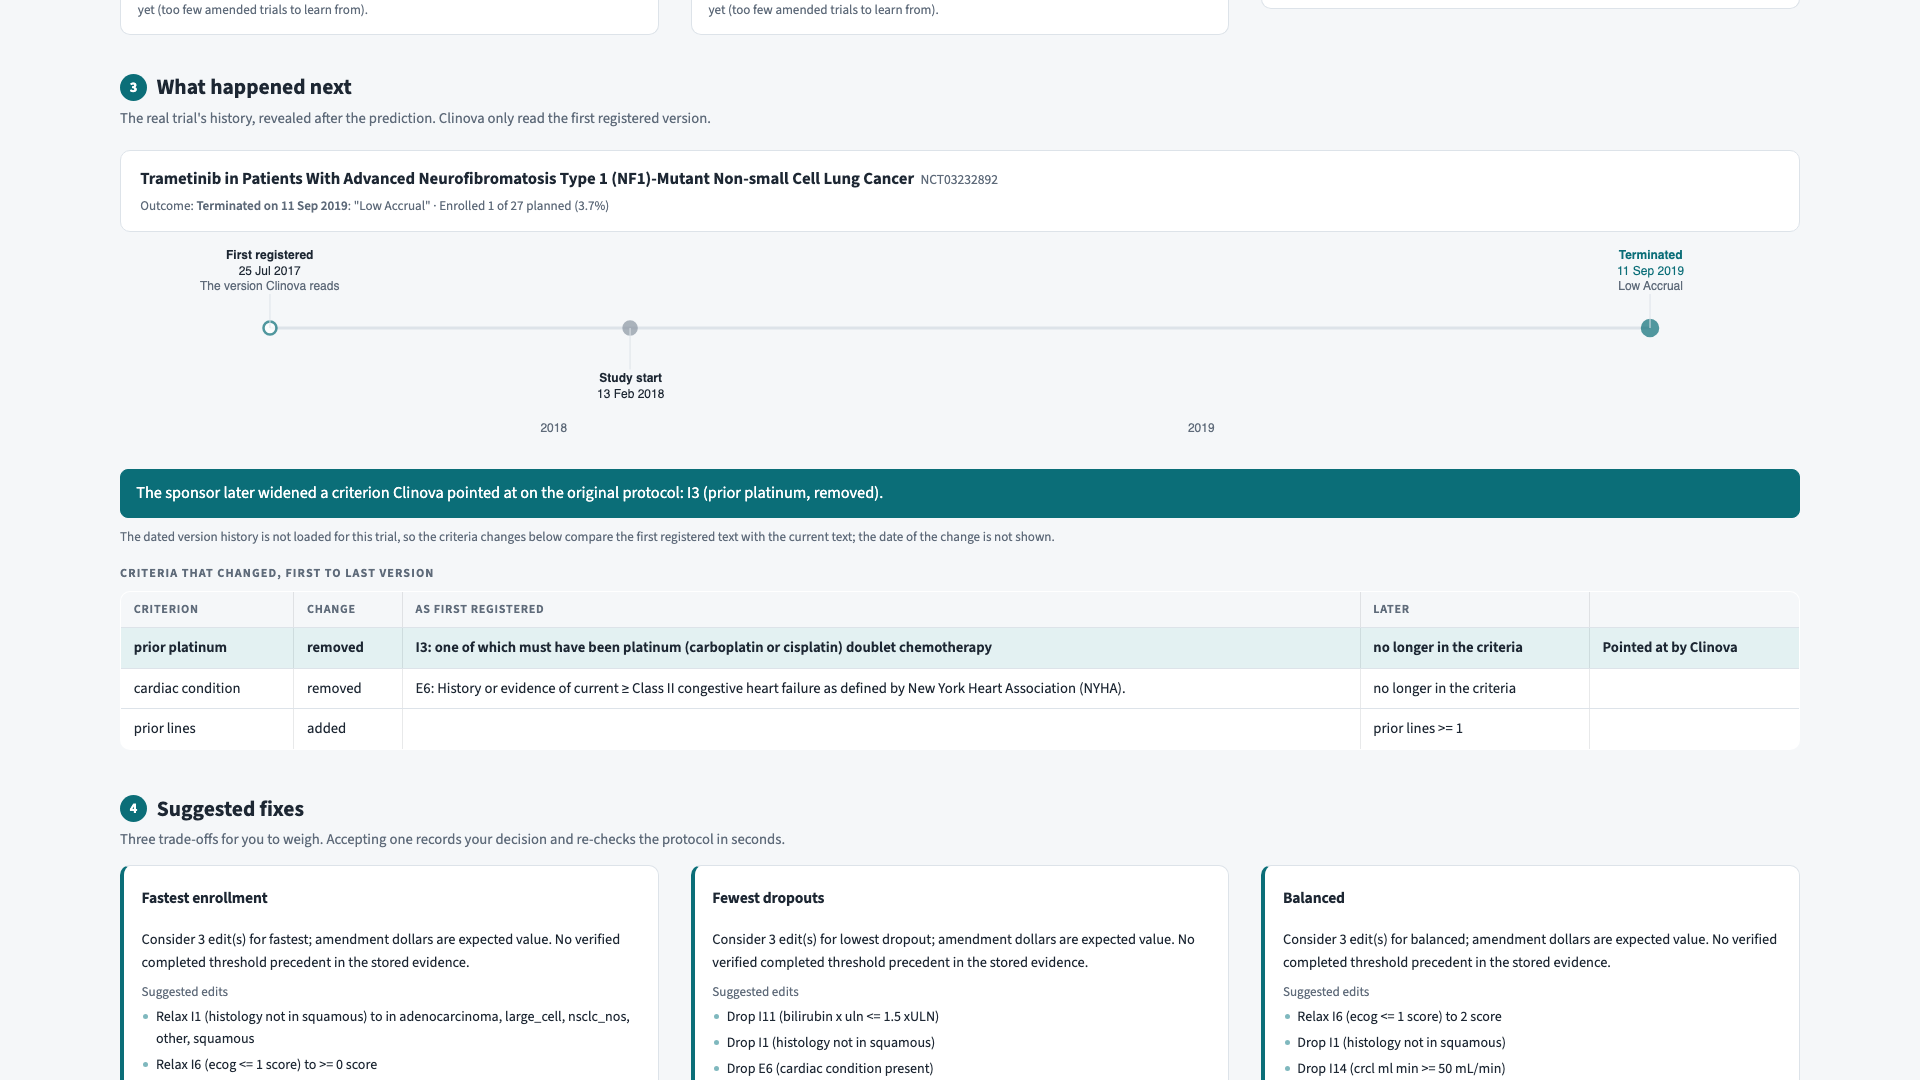
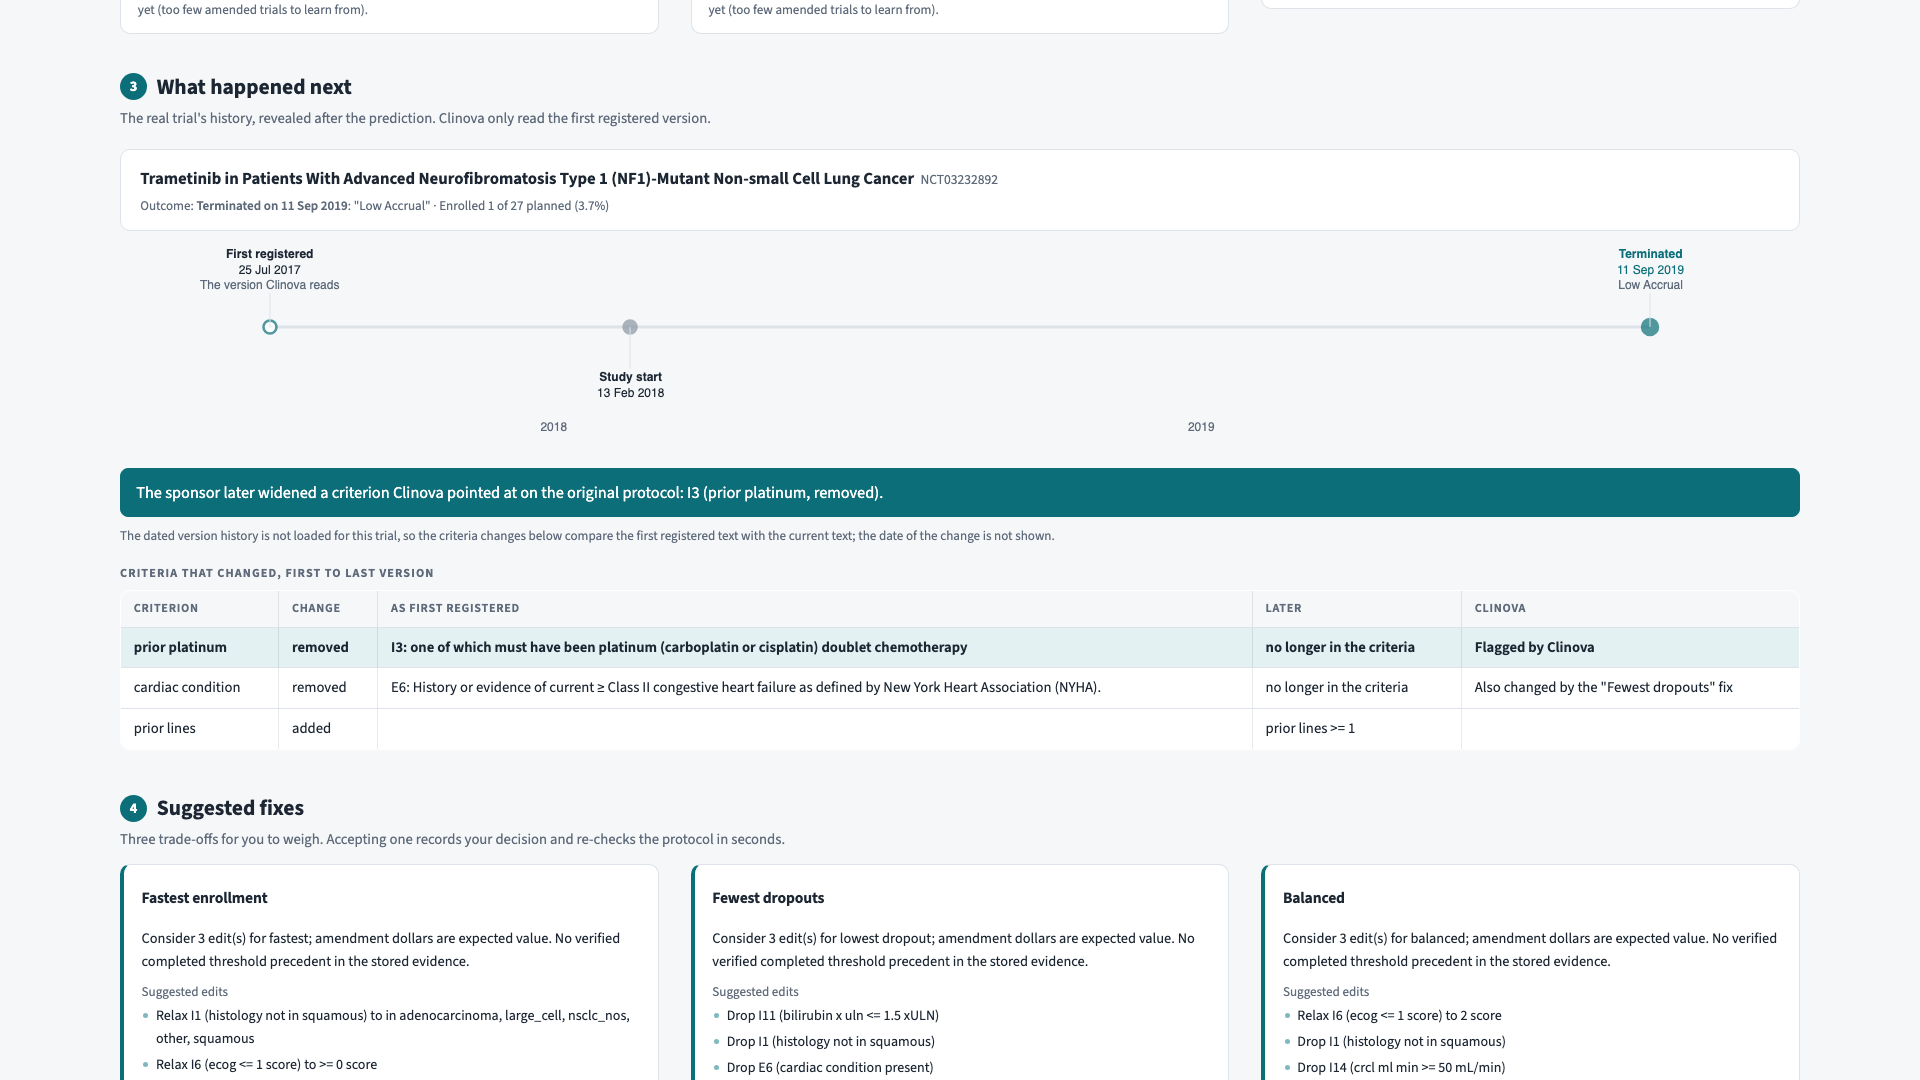
T32: App polished on frozen v1.0 outputs: video-order results (waterfall funnel, percentile risk, not-validated/no-model states, flags, reveal timeline, 3 fix cards, accept before/after), cached demo results, 11 screenshots; 481 tests pass with libomp path (env issue in contract_changes/T32.md)

diff --git a/clinova/app/charts.py b/clinova/app/charts.py
@@ -96,7 +96,7 @@ def funnel_waterfall(funnel: Funnel, sims: list[SimRunSummary], highlight: str |
     comp = _mean([s.completion_rate for s in sims]) if sims else None
     if enroll is not None and comp is not None:
         n_enr = round(funnel.n_eligible * enroll)
-        tail += [("Enroll", n_enr), ("Complete", round(n_enr * comp))]
+        tail += [("Enroll", n_enr), ("Finish", round(n_enr * comp))]
     fig = go.Figure()
     fig.add_trace(
         go.Bar(

diff --git a/clinova/api/runs.py b/clinova/api/runs.py
@@ -252,6 +252,8 @@ class RunManager:
         While the ledger or database is unavailable the score goes to the in-memory audit instead."""
         from clinova.api.audit import MEMORY
 
+        if any(d.feature == "no_model" for d in risk.top_drivers):
+            return  # a placeholder (e.g. amendment with no model) is not a prediction; never log it as one
         ctx = "fixture" if fixture else context
         try:
             live._need_db()

diff --git a/docs/handoff/T32.md b/docs/handoff/T32.md
@@ -1,0 +1,96 @@
+# T32 handoff: app polish on real v1.0 outputs
+
+Branch `task/T32-app-polish`. History:
+- started early on gate/1 plus `origin/task/T25-api`;
+- `origin/main` merged at gate/2 with no conflicts;
+- finished on the frozen v1.0 outputs.
+
+Owns `clinova/app/`, presentation-only parts of `clinova/api/`, `tests/app/`, `tests/api/` and `docs/screens/`.
+
+## What works
+- **Results screen in demo-video order.** Funnel and risk share the first row; then come "Where to look first" (flags), "What happened next" (the reveal, for NCT loads) and "Suggested fixes". Secondary funnel charts sit in an expander. The footer reads "Clinova advises; the protocol author decides." It appears on every tab.
+- **0:20–1:10.**
+  - Loading an NCT ID shows the chip "Protocol as originally registered on 25 Jul 2017", using the API's `registered_on`.
+  - The funnel is a protocol-order waterfall: remaining and dropped per criterion, then eligible, would enroll, would finish. The flagged criterion is highlighted, with a callout giving its counts. That is the top flag; with no flags, it is the largest single-rule exclusion.
+  - KPI tiles: screened, eligible, enroll, finish.
+  - Risk cards show the probability, its range, confidence and drivers.
+  - With real metrics, each card adds its percentile among held-out test trials (from `docs/predictions.csv`).
+  - A target with no test metrics shows "No model yet" and no number (amendment in v1.0).
+  - A target whose AUC interval is not above 0.5, or whose Brier score is not better than the baseline's, shows "Not validated" (shortfall in v1.0).
+- **Flags.** Each flag shows where, why and what to do.
+  - Dollar line: the expected value of the fix that changes the same rule. With no amendment model, it says the value is not estimated, and why.
+  - When every flag has `delta_p` 0, the section says they are ranked by exclusion share, not by modeled risk.
+- **1:10–1:30 reveal.**
+  - The trial card shows the outcome and enrollment (1 of 27 planned for the demo trial).
+  - A horizontal timeline comes from the trial record and `trial_versions`: first registered, study start, eligibility changes (accent), status change or termination (accent).
+  - A strong callout appears when the sponsor later widened a rule Clinova pointed at (demo: I3 prior platinum, removed).
+  - The rule-change table shows the first-registered source text. Each row is marked "Flagged by Clinova" or "Also changed by the 'Fewest dropouts' fix" (the cardiac exclusion).
+  - When the version history is not loaded, the reveal says so instead of showing a date.
+- **1:30–2:10 fixes.**
+  - Three fix cards in columns: edits in plain words (symbols, units, lists), enrollment speed, dropout, diversity, amendment risk and expected value. Each shows its range, or "not estimated: no amendment model yet". Precedents appear when present.
+  - Accept calls `/fixes/accept`. It shows a before/after table with a Change column (better in accent), the basis and the elapsed seconds.
+  - Before/after has a new "Would enroll, share of screened" row (`Measures.enroll_speed`). This is the quantity the optimizer's `delta_enroll` refers to. Before, the optimizer estimate pushed "enroll rate" to 100%.
+- **Tabs.**
+  - Validation: AUC vs baseline with intervals; calibration with a target picker, zoomed to the data; hit rate and ablation empty states that point to the caveats. Each chart has one computed sentence, and the not-validated sentence comes from metrics.
+  - Replay: the curve plus a computed "retrained better in N of M months" sentence.
+  - Pulse: a clean "not run" state.
+  - Audit log: counts, percent formatting, newest 500.
+- **States.**
+  - Empty: a dashed box everywhere, including an empty start screen with a how-it-works strip.
+  - Loading: spinners and stage progress.
+  - Errors: plain sentences. The API has a global handler that answers 500s with one sentence and logs the trace. The client flattens 422 validation lists and never shows a raw body.
+  - "fixture data" is an amber tag. It no longer appears on a real trial's history.
+- **API presentation changes (`clinova/api`):**
+  - `demo_cache.py` serves `docs/demo_results/<NCT>.json` and `<NCT>_optimize.json` when the protocol run equals the snapshot (rules and visits; lock toggles ignored; fixes on locked rules dropped). Results are tagged `source: cache`, which saves the two-minute optimizer run. Any edit goes to the live engine.
+  - `ValidationResponse.test_p`: sorted test-split p per target.
+  - `Measures.enroll_speed`.
+  - An engine that cannot load (`ImportError` / `OSError`: missing libomp or model bundle) falls back per stage with the usual fixture label instead of failing the run.
+  - Placeholder risks (driver `no_model`) are never logged as predictions.
+  - The optimizer-estimate accept path is tagged with the run's source instead of always "fixture".
+  - `python -m clinova.api` re-execs itself with scikit-learn's libomp on a Mac where LightGBM cannot load.
+- **Screenshots:** `docs/screens/01..11` at 1920×1080 on the real v1.0 outputs. `docs/screens/README.md` holds the review notes and the best five for the deck.
+
+## What is stubbed or faked
+- The v1.0 model bundle (`models/v1.0/`) is not on this machine; `find /` found none. Live scoring here therefore falls back to fixtures for any protocol except the three cached demo trials. Fast re-runs after Accept use the optimizer's estimates (`basis: optimizer_estimate`). On a machine with the bundle, the same code serves live scores and the quick re-run.
+- The reveal has no dated eligibility change, because `trial_versions` has 0 rows (T11 history pass).
+- Fix summary text comes from the optimizer and reads technically.
+
+## How to run
+```
+CLINOVA_MODE=demo uv run python -m clinova.api --port 8000
+CLINOVA_API_URL=http://127.0.0.1:8000 uv run python -m clinova.app
+uv run python -m clinova.app.screenshots --url http://127.0.0.1:8501        # --nct defaults to DEMO_NCT_ID
+```
+
+## Checks
+- **`make check` on this Mac:** ruff is clean. pytest fails at collection in four non-T32 test files: LightGBM cannot find `libomp.dylib`, an environment problem. See `docs/contract_changes/T32.md`.
+- **Full suite with the library path set:** **481 passed**.
+  ```
+  DYLD_FALLBACK_LIBRARY_PATH=$PWD/.venv/lib/python3.11/site-packages/sklearn/.dylibs .venv/bin/python -m pytest -q
+  ```
+- **`tests/app` and `tests/api`:** these pass without it. One route test skips when the model module cannot load.
+
+## Background jobs
+None left running. The dev servers on ports 8132 and 8532 were stopped.
+
+## Numbers produced
+None new. Everything on screen comes from API responses, which read committed files (`docs/metrics.json`, `docs/predictions.csv`, `docs/demo_results/`, `docs/replay.json`) or live modules. Shown for the demo trial:
+- accrual failure 7.2% (range 5.9% to 11.7%), higher than 50% of 359 held-out test trials;
+- shortfall 66.6%, higher than 98% of 353, not validated;
+- amendment: no model yet;
+- eligible 229 of 1,000 (22.9%) in the first-seed funnel.
+
+## Decisions
+- **Risk level words.**
+  - With test percentiles: High at the 80th percentile or above, "Above typical" from the 60th, else "Typical or lower".
+  - Without them (fixture metrics): absolute bands at 40% and 20%.
+  - The number and range always sit next to the word. The demo trial therefore shows "Typical or lower" for accrual. That matches the gate 2 finding that the model misses this trial; we do not dress it up as high.
+- **"Validated" rule:** test AUC interval low above 0.5 **and** Brier better than the baseline's. It is computed only from `docs/metrics.json`, and only when the source is live.
+- **Funnel highlight:** the top flag when there is one (the model's pick), else the largest single-rule exclusion.
+- **Flag dollar figure:** borrowed from the fix that edits the same rule (`CriterionFlag` has no dollar field); "not estimated" when there is no amendment model.
+- **Cached demo results win over the live engine for the exact snapshot:** same model version, and the optimizer takes about 2 minutes. The screen says so.
+
+## Open issues
+- The LightGBM/libomp environment issue on this Mac (contract change 1).
+- The cached path skips live score, flags and optimize. If the frozen results are regenerated, `docs/demo_results/` must be refreshed (`scripts/g2_demo_results.py`).
+- Fix cards differ in height, so the Accept buttons do not line up.

diff --git a/docs/screens/README.md b/docs/screens/README.md
@@ -1,0 +1,48 @@
+# App screenshots (T32)
+
+All screens are 1920×1080. `python -m clinova.app.screenshots --url http://127.0.0.1:8501` took them. The API and app were running against the shared database, and `CLINOVA_MODE=demo` was set. They show demo trial **NCT03232892** on the frozen **v1.0** outputs.
+
+Risk, flags and fixes for that exact protocol come from `docs/demo_results/` and are tagged `source: cache`. The funnel, agents, trial record and rule diff are live.
+
+| File | View | Video scene |
+| --- | --- | --- |
+| `01-input.png` | Start screen: load a registered trial or paste a draft; how-it-works strip | 0:20 |
+| `02-parsed-rules.png` | Trial as originally registered on 25 Jul 2017; editable rule table, unparseable rows in amber | 0:20 |
+| `03-funnel-risk.png` | Funnel in protocol order with the flagged criterion (I3, prior platinum) highlighted; risk cards with percentile context, "not validated" and "no model yet" states | 0:20–1:10 |
+| `04-flags.png` | Three flags: where, why, what to do, and the dollar line (not estimated: no amendment model) | 0:20–1:10 |
+| `05-reveal.png` | Timeline (registered, start, terminated for low accrual); the sponsor later removed I3, the rule Clinova flagged | 1:10–1:30 |
+| `06-fixes.png` | Three trade-off fixes with ranges; amendment value marked not estimated | 1:30–2:10 |
+| `07-fix-accepted.png` | After Accept: before/after table (basis: optimizer estimate on this machine) | 1:30–2:10 |
+| `08-validation.png` | AUC vs baseline with intervals, calibration, hit rate and ablation empty states, caveats | 2:10–2:40 |
+| `09-replay.png` | Retrained vs frozen Brier, month by month, with the computed sentence | 2:10–2:40 |
+| `10-pulse.png` | Community Pulse "not run" state (T16 was cut) | none |
+| `11-audit.png` | Audit log: decisions and logged predictions | none |
+
+## Best five for the deck
+1. `05-reveal.png`: the sponsor removed the rule Clinova flagged first.
+2. `03-funnel-risk.png`: where enrollment stalls, plus honest risk context.
+3. `06-fixes.png`: three trade-offs with ranges.
+4. `08-validation.png`: the proof tab, with intervals and caveats.
+5. `04-flags.png`: where, why, what to do.
+
+## Design review notes (what I looked for and fixed)
+- **Layout:** results sit above the fold at 1080p. Funnel and risk share the first row, with flags, reveal and fixes below in video order. Fixes are three columns.
+- **Numbers:** percentages show at most 1 decimal and dollars are rounded to $1K. Each sentence is built from API numbers. A probability placeholder (amendment) is never shown as a number.
+- **Honesty labels:**
+  - "fixture data" is an amber tag.
+  - "Not validated" comes from metrics: the AUC interval must be above 0.5 and the Brier score must beat the baseline.
+  - "No model yet" means the target has no test metrics.
+  - A note under the results says when results come from the frozen cache.
+- **Fixed during review:**
+  - overlapping funnel tick labels;
+  - the clipped hit-rate axis title;
+  - calibration zoomed to the data (probabilities are compressed; the gate 2 report says served test p never exceeds 0.218);
+  - Python list syntax in edit text;
+  - the "+0.00 better" coloring below shown precision;
+  - the misleading "fixture" tag on the real trial's history;
+  - the before/after enroll rate that the optimizer's relative delta pushed to 100% (now enrollment speed, share of screened);
+  - the legend that claimed simulation features v1.0 does not use.
+- **Known and left:**
+  - The optimizer's fix summaries read technically. That text comes from `clinova/optimize`.
+  - Fix cards differ in height, so the Accept buttons do not line up.
+  - The timeline has no eligibility-change date: `trial_versions` is empty, so the reveal says the change compares first and current text.

diff --git a/docs/contract_changes/T32.md b/docs/contract_changes/T32.md
@@ -1,0 +1,25 @@
+# T32 contract change requests
+
+## 1. `make check` cannot load LightGBM on a Mac without Homebrew's libomp
+
+**Seen on:** the B-claude machine at hour 6.4. `lightgbm` imports `lib_lightgbm.dylib`, which needs `@rpath/libomp.dylib`. Homebrew is not installed, so the library is missing. `make check` then stops at collection with four errors (`tests/integrity/test_integrity.py`, `tests/loop/test_checker.py`, `tests/loop/test_replay.py`, `tests/model/test_model.py`). They are all `OSError: dlopen(...)`.
+
+**Confirmed workaround:** scikit-learn's wheel ships `sklearn/.dylibs/libomp.dylib`. With that folder on `DYLD_FALLBACK_LIBRARY_PATH`, the full suite passes (481 passed):
+```
+DYLD_FALLBACK_LIBRARY_PATH=$PWD/.venv/lib/python3.11/site-packages/sklearn/.dylibs .venv/bin/python -m pytest -q
+```
+Do not route this through `/usr/bin/make`. macOS SIP removes `DYLD_*` variables when it starts a protected binary, so the variable is lost before `make` runs its children.
+
+**Proposed change (owner: integrator, `Makefile`):**
+```make
+# macOS without Homebrew libomp: borrow scikit-learn's copy for LightGBM (no-op elsewhere)
+SKLEARN_OMP := $(shell uv run python -c "import sklearn,os;print(os.path.join(os.path.dirname(sklearn.__file__),'.dylibs'))" 2>/dev/null)
+test:
+	DYLD_FALLBACK_LIBRARY_PATH="$(SKLEARN_OMP)" uv run pytest -q
+```
+This still runs into the SIP problem when `make` itself is the system binary. The more robust alternative is a few lines in `clinova/common/` that preload the library with `ctypes` before importing lightgbm. That did **not** work in my test, because dyld matches by install name. Re-executing with the variable set does work. The API now does that in `clinova/api/__main__.py` (my folder), so `python -m clinova.api` serves the real model on such a Mac.
+
+## 2. Nothing else
+API response additions are presentation-only and live in `clinova/api/schemas.py` (mine):
+- `ValidationResponse.test_p`
+- `Measures.enroll_speed`
